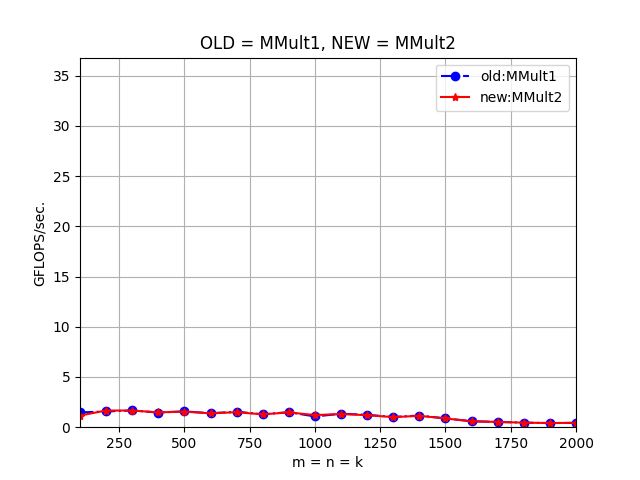
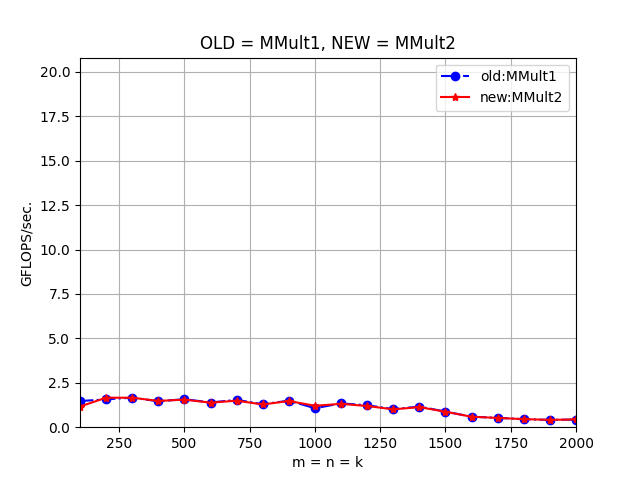
GHz_of_processor=2.6（cat /proc/cpuinfo|grep MHz），重新绘制折线图

diff --git a/src/HowToOptimizeGemm/image/output_MMult2-1x4-4.m b/src/HowToOptimizeGemm/image/output_MMult2-1x4-4.m
@@ -1,0 +1,23 @@
+version = 'MMult2-1x4-4';
+MY_MMult = [
+100 1.323627e+00 0.000000e+00 
+200 1.600320e+00 0.000000e+00 
+300 1.661385e+00 0.000000e+00 
+400 1.454413e+00 0.000000e+00 
+500 1.546006e+00 0.000000e+00 
+600 1.365796e+00 0.000000e+00 
+700 1.498841e+00 0.000000e+00 
+800 1.288318e+00 0.000000e+00 
+900 1.466973e+00 0.000000e+00 
+1000 1.205596e+00 0.000000e+00 
+1100 1.348753e+00 0.000000e+00 
+1200 1.219561e+00 0.000000e+00 
+1300 9.576306e-01 0.000000e+00 
+1400 1.152655e+00 0.000000e+00 
+1500 8.230391e-01 0.000000e+00 
+1600 5.923645e-01 0.000000e+00 
+1700 5.337494e-01 0.000000e+00 
+1800 4.506466e-01 0.000000e+00 
+1900 4.050195e-01 0.000000e+00 
+2000 4.506466e-01 0.000000e+00 
+];

diff --git a/src/HowToOptimizeGemm/image/output_MMult2-1x4-5.m b/src/HowToOptimizeGemm/image/output_MMult2-1x4-5.m
@@ -1,0 +1,23 @@
+version = 'MMult2-1x4-5';
+MY_MMult = [
+100 1.250782e+00 0.000000e+00 
+200 3.381234e+00 0.000000e+00 
+300 2.748231e+00 0.000000e+00 
+400 2.129890e+00 0.000000e+00 
+500 2.014326e+00 0.000000e+00 
+600 1.987285e+00 0.000000e+00 
+700 1.985557e+00 0.000000e+00 
+800 1.896131e+00 0.000000e+00 
+900 1.883889e+00 0.000000e+00 
+1000 1.699895e+00 0.000000e+00 
+1100 1.611086e+00 0.000000e+00 
+1200 1.480717e+00 0.000000e+00 
+1300 1.152943e+00 0.000000e+00 
+1400 1.190458e+00 0.000000e+00 
+1500 9.083256e-01 0.000000e+00 
+1600 1.007536e+00 0.000000e+00 
+1700 7.805622e-01 0.000000e+00 
+1800 9.339151e-01 0.000000e+00 
+1900 7.285595e-01 0.000000e+00 
+2000 9.383495e-01 0.000000e+00 
+];

diff --git a/src/HowToOptimizeGemm/proc_parameters.m b/src/HowToOptimizeGemm/proc_parameters.m
@@ -19,4 +19,4 @@ nprocessors = 1;
 % the peak clock rate...
 % 注意：一些处理器具有“涡轮增压”（turbo boost）模式，可以提高峰值时钟速率。
 
-GHz_of_processor = 4.6;
+GHz_of_processor = 2.6;

diff --git a/src/HowToOptimizeGemm/PlotAll.py b/src/HowToOptimizeGemm/PlotAll.py
@@ -15,7 +15,7 @@ nprocessors = 1
 # Note: some processors have a "turbo boost" mode, which increases
 # the peak clock rate...
 #
-GHz_of_processor = 4.6
+GHz_of_processor = 2.6
 
 
 class Parser:
